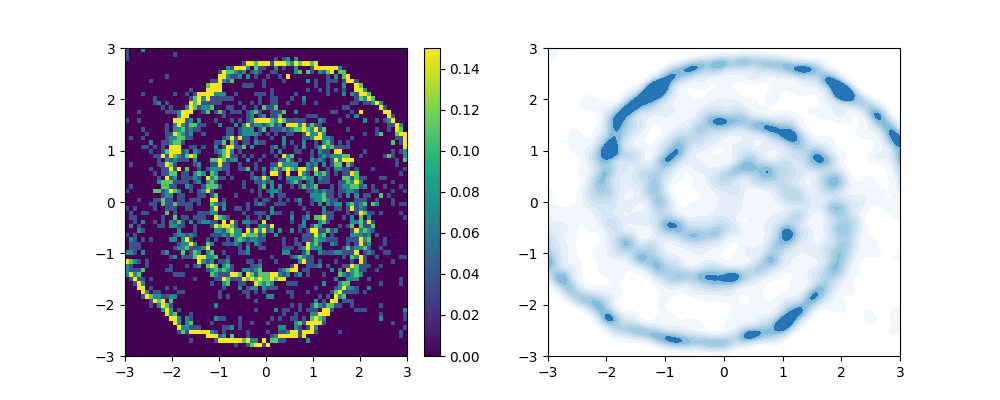
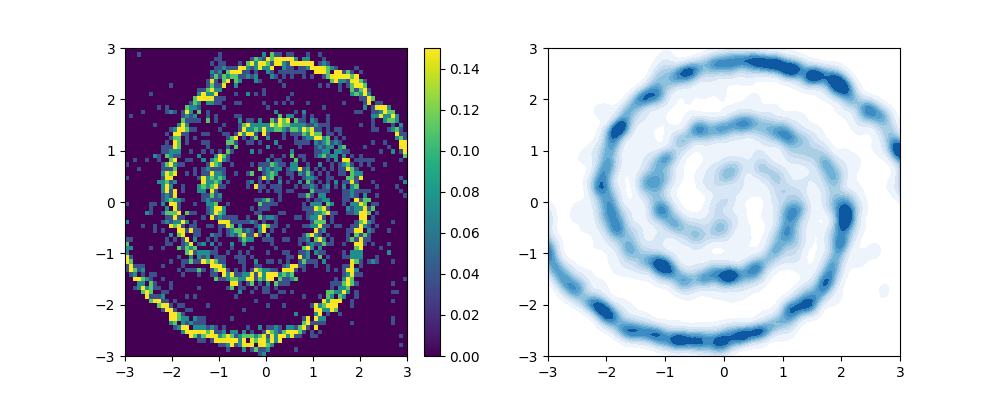
generic commit

diff --git a/scripts/transport/c_transport.py b/scripts/transport/c_transport.py
@@ -662,7 +662,7 @@ def vl_exp(N=4000, Yd=18, normal=True, exp_name='kvl_exp', n_transports=100, N_p
 
 def run():
     #elden_exp(N=4000, exp_name='elden_exp_2', n_transports=1)
-    two_d_exp(ref_gen=sample_normal, target_gen=sample_spirals, N=4000, exp_name='spirals_exp_2', n_transports=1,
+    two_d_exp(ref_gen=sample_normal, target_gen= sample_elden_ring, N=4000, exp_name='elden_exp2', n_transports=1,
               slice_vals=[0], plt_range=[[-3, 3], [-3, 3]], slice_range=[-3, 3], vmax=.15, skip_idx=1)
 
 

diff --git a/scripts/transport/kvae_flow.py b/scripts/transport/kvae_flow.py
@@ -731,7 +731,7 @@ def vl_exp(N=4000, Yd=18, normal=True, exp_name='kvl_exp', n_transports=100, N_p
 
 
 def run():
-    two_d_exp(ref_gen=sample_normal, target_gen=sample_spirals, N=4000, exp_name='spirals_exp_1', n_transports = 80,
+    two_d_exp(ref_gen=sample_normal, target_gen=sample_elden_ring, N=4000, exp_name='elden_exp_1', n_transports = 80,
               slice_vals = [0], plt_range = [[-3,3],[-3,3]], slice_range = [-3,3], vmax=.15, skip_idx=1)
 
 
